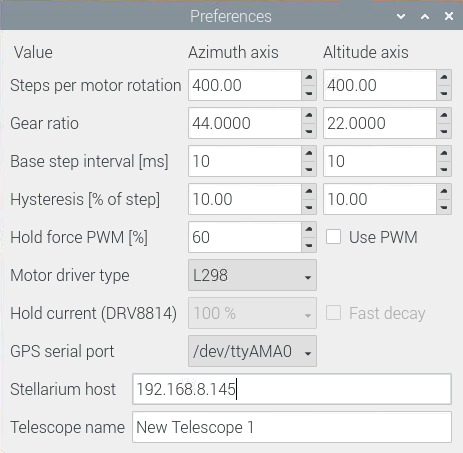
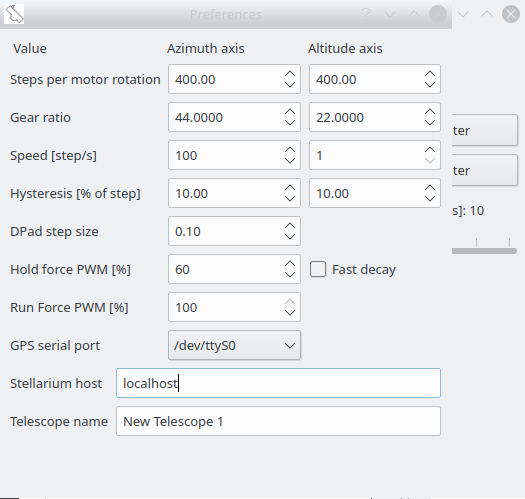
Update readme

diff --git a/README.md b/README.md
@@ -3,12 +3,16 @@ Mortar is a software to drive an altazimuth mounted (eg. dobsonian) telescope us
 
 ## Background
 
+I wanted to make a simple to use interface to drive a dobsonian telescope. It should use original mount, common electronics and 3D-printed parts. It should not need extensive calibration (eg. searching Polaris). It should not need doing conversion between equatorial and altazimuth coordinates.  
+
+[![Dobsonian telescope driven by Mortar](https://img.youtube.com/vi/ajDmgW0s_2s/0.jpg)](https://www.youtube.com/watch?v=ajDmgW0s_2s)
 
 ## Prerequisites
 
 ### Software Dependencies
 
 * Stellarium
+* pigpio library
 * Qt and qmake
 * Qt serialport module
 * Qt gamepad module
@@ -17,12 +21,37 @@ Mortar is a software to drive an altazimuth mounted (eg. dobsonian) telescope us
 
 ### Hardware
 
-* Rasperry Pi
-* Two stepper motors
-* Stepper motor drivers (DRV8814 or L298)
+* Altzimuth telescope
+* 3D-printed parts and bearings - see mechanical/teleskop.FCStd Parts are made with [FreeCAD Assembly3 branch.](https://github.com/realthunder/FreeCAD_assembly3/releases)
+* Raspberry Pi
+* Two bipolar stepper motors
+* Two stepper motor drivers DRV8814 (L298 is deprecated in master, see wiringpi-legacy branch)
 * Gamepad
 * (Optional) GPS module
 * (Optional) touch screen
+
+Pins for DRV8814 drivers are described in MotorWorker.cpp
+
+Both drivers:
+
+    Decay: GPIO 22, physical pin 15
+    xI0: GPIO17, physical pin 11, current regulation
+    xI1Pin: GPIO27, physical pin 13
+    
+Altitude driver:
+
+    AENBL: GPIO 4, physical pin 7
+    APHASE: GPIO 5, physical pin 29
+    BENBL: GPIO 18, physical pin 12
+    BPHASE: GPIO 6, physical pin 31
+    
+Azimuth driver:
+
+    AENBL: GPIO 20, physical pin 38
+    PHASE: GPIO 12, physical pin 32
+    BENBL: GPIO 21, physical pin 21
+    BPHASE: GPIO 26, physical pin 37
+
 
 ## Installation and Usage
 
@@ -32,7 +61,16 @@ If you want use GPS, enable UART in the rpi-config utility.
 
 [uart]: https://raw.githubusercontent.com/kwahoo2/Mortar/master/.github/images/rpi-config.png "Raspberry UART setup" 
 
-Download and compile the software.
+Download and compile the [pigpio](http://abyz.me.uk/rpi/pigpio/index.html) library.
+
+```
+git clone  https://github.com/joan2937/pigpio.git
+cd pigpio
+make
+sudo make install
+```
+
+Download and compile and run the software.
 
 ```
 sudo apt install qt5-default libqt5gamepad5-dev libqt5serialport5-dev libxdo-dev
@@ -58,7 +96,7 @@ In the Mortar open the preferences and set the telescope name from Stellarium. I
 
 [prefs]: https://raw.githubusercontent.com/kwahoo2/Mortar/master/.github/images/remote.png "Mortar preferences" 
 
-You may use a gamepad to move your telescope. Analog stick works as coarse adjustment, dpad moves a stepper motor by a single step. R2 button emulates F11, and it is useful for Stellarium fullscreen toggle.
+You may use a gamepad to move your telescope. Analog stick works as coarse adjustment, dpad moves a stepper motor by a small (size is adjustable in options) step. R2 button emulates F11, and it is useful for Stellarium fullscreen toggle.
 
 ## Telescope calibration and observation
 
@@ -70,12 +108,12 @@ You may use a gamepad to move your telescope. Analog stick works as coarse adjus
 
 4. Click "Sync with Stellarium". Both programs are synced now. Real telescope will follow the virtual one.
 
+5. While Mortar supports fine microstepping, constant movement may introduce vibrations. To prevent this a "Start Stop mode" is availabe. When enabled Mortat will move the telescope in predefined intervals.
 
-### Raspberry Pi4 and WiringPi
 
-If you use Raspberry Pi4 you may encounter issues. Check for working version of WiringPi libraries:
-http://wiringpi.com/wiringpi-updated-to-2-52-for-the-raspberry-pi-4b/
+### WiringPi legacy brach
 
+wiringpi-legacy branch contains a deprecated implementation using WiringPi instead of pigpio. That brach supports full-step operation only. 
 
 
 ## License
